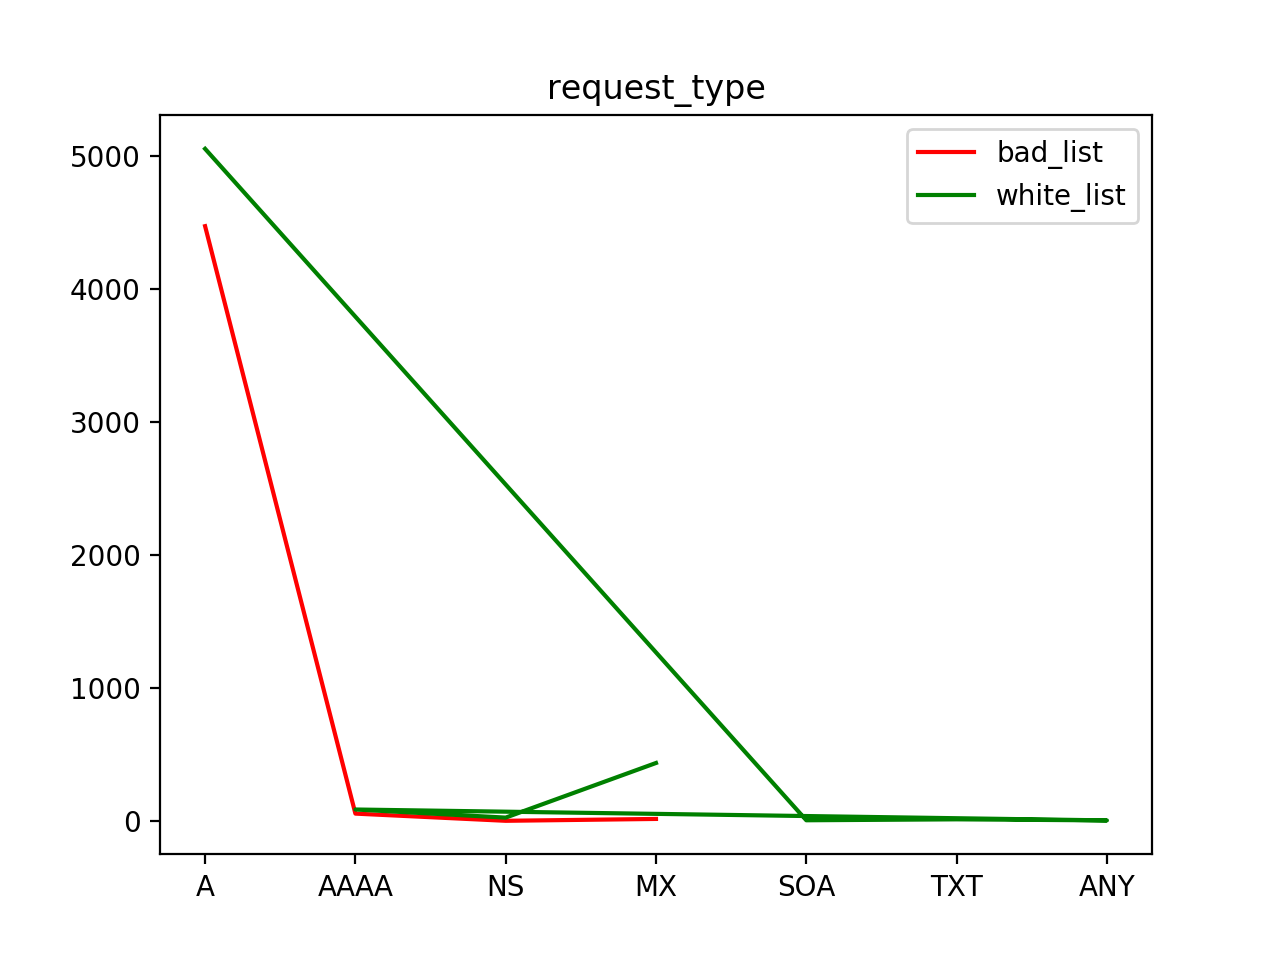
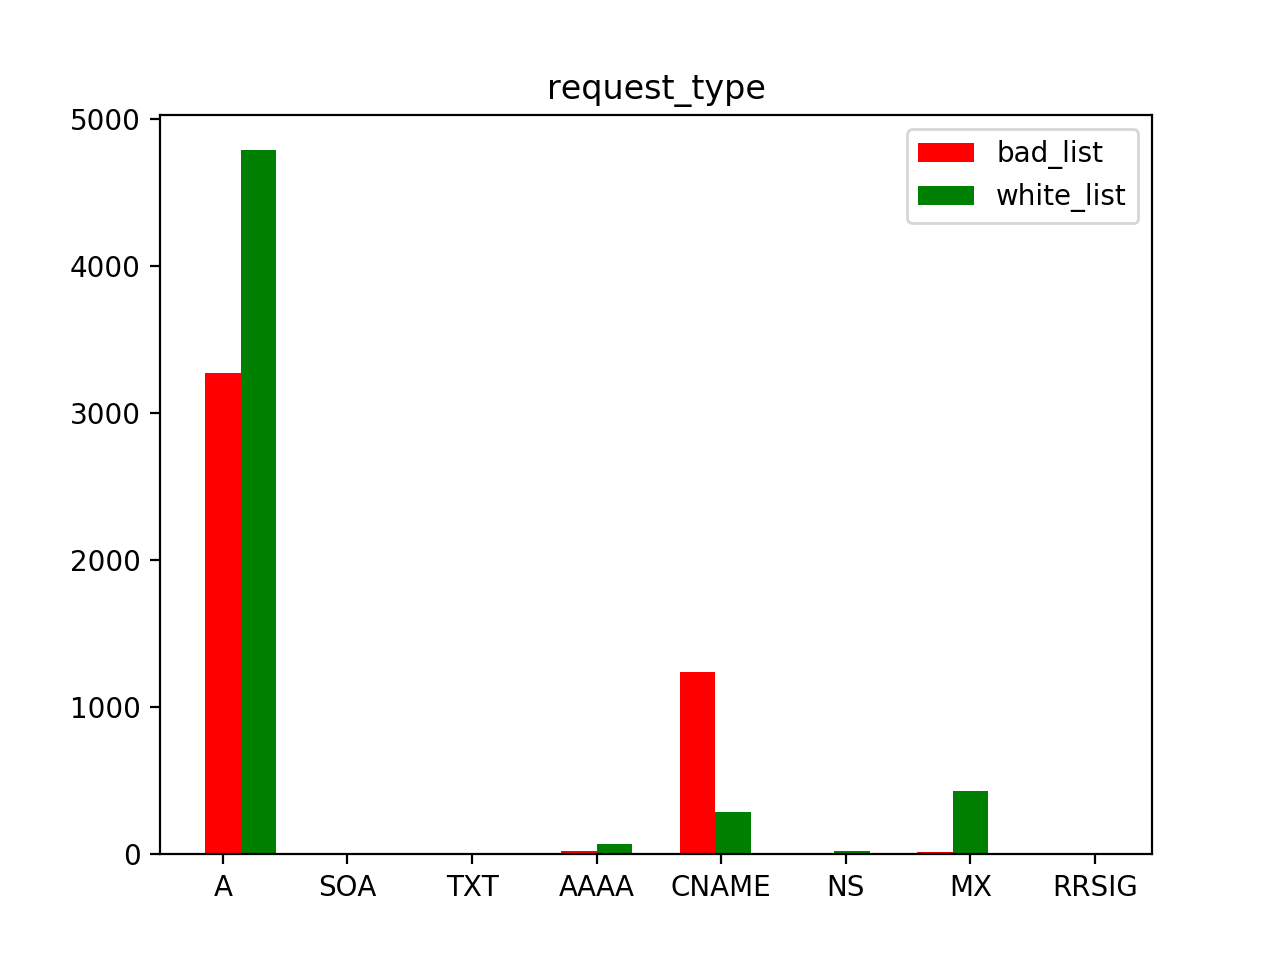
ip_count

diff --git a/code/feature_analysis.py b/code/feature_analysis.py
@@ -310,12 +310,27 @@ def inter_analysis_1():
 	for ele in bad_lines:
 		ele = ele.strip('\n').split(',')
 		if ele:
-			bad_dict[ele[1]] = {'req_type':ele[2],'TTL':ele[3]}
+			if ele[4] == 'A' or ele[4] == 'AAAA' or ele[4] == 'CNAME' or ele[4] == 'MX':
+				tmp_l = ele[5].strip('\r').split(';')
+				tmp = []
+				for every in tmp_l:
+					if re.match(r'((25[0-5]|2[0-4]\d|((1\d{2})|([1-9]?\d)))\.){3}(25[0-5]|2[0-4]\d|((1\d{2})|([1-9]?\d)))',every):
+						tmp.append(every)
+				bad_dict[ele[1]] = {'req_type':ele[4],'TTL':ele[3],'result':tmp}
+			else:
+				bad_dict[ele[1]] = {'req_type':ele[4],'TTL':ele[3],'result':[0]}
 	for ele in white_lines:
 		ele = ele.strip('\n').split(',')
 		if ele:
-			white_dict[ele[1]] = {'req_type':ele[2],'TTL':ele[3]}	
-
+			if ele[4] == 'A' or ele[4] == 'AAAA' or ele[4] == 'CNAME' or ele[4] == 'MX':
+				tmp_l = ele[5].strip('\r').split(';')
+				tmp = []
+				for every in tmp_l:
+					if re.match(r'((25[0-5]|2[0-4]\d|((1\d{2})|([1-9]?\d)))\.){3}(25[0-5]|2[0-4]\d|((1\d{2})|([1-9]?\d)))',every):
+						tmp.append(every)
+				white_dict[ele[1]] = {'req_type':ele[4],'TTL':ele[3],'result':tmp}
+			else:
+				white_dict[ele[1]] = {'req_type':ele[4],'TTL':ele[3],'result':[0]}
 
 	bad_ttl_dict = {}
 	bad_res_dict = {}
@@ -354,28 +369,62 @@ def inter_analysis_1():
 		x_line2.append(k)
 		y_line2.append(int(bad_ttl_dict[str(k)]))	
 
+	#绘制ttl的对比图
 	plt.plot(x_line2,y_line2,color='r',label='bad_list')
 	plt.plot(x_line1,y_line1,color='g',label='white_list')
 	plt.title('TTL') #标题
 	plt.legend()
 	plt.show()
 
-	x_line1 = []
-	x_line2 = []
-	y_line1 = []
-	y_line2 = []
-	for k in white_res_dict:
-		x_line1.append(k)
-		y_line1.append(int(white_res_dict[k]))
-	for k in bad_res_dict:
-		x_line2.append(k)
-		y_line2.append(int(bad_res_dict[k]))	
-
-	plt.plot(x_line2,y_line2,color='r',label='bad_list')
-	plt.plot(x_line1,y_line1,color='g',label='white_list')
+	index = white_res_dict.keys()
+	bad_y = []
+	white_y = []
+	for i in range(len(index)):
+		white_y.append(white_res_dict[index[i]])	
+		if index[i] in bad_res_dict.keys():
+			bad_y.append(bad_res_dict[index[i]])
+		else:
+			bad_y.append(0)
+	#绘制响应类型的对比图
+	ind = np.arange(len(white_res_dict.keys()))
+	bar_width = 0.3
+	plt.bar(ind , bad_y, width=0.3 , color='r',label='bad_list')
+	plt.bar(ind + bar_width , white_y, width=0.3 , color='g',label='white_list')
+	plt.xticks(tuple(x*1.05 for x in range(len(white_res_dict.keys()))),tuple(white_res_dict.keys()))
 	plt.title('request_type') #标题
 	plt.legend()
 	plt.show()	
+
+	#绘制IP个数的对比图
+	bad_ip_list = {}
+	white_ip_list = {}
+	for key in bad_dict:
+		if len(bad_dict[key]['result']) in bad_ip_list.keys():
+			bad_ip_list[len(bad_dict[key]['result'])] += 1
+		else:
+			bad_ip_list[len(bad_dict[key]['result'])] = 1
+	for key in white_dict:
+		if len(white_dict[key]['result']) in white_ip_list.keys():
+			white_ip_list[len(white_dict[key]['result'])] += 1
+		else:
+			white_ip_list[len(white_dict[key]['result'])] = 1
+
+	x_line5 = []
+	y_line5 = []
+	x_line6 = []
+	y_line6 = []
+	for k in bad_ip_list:
+		x_line5.append(k)
+		y_line5.append(bad_ip_list[k])
+	for k in white_ip_list:
+		x_line6.append(k)
+		y_line6.append(white_ip_list[k])	
+
+	plt.plot(x_line5,y_line5,color='r',label='bad_list')
+	plt.plot(x_line6,y_line6,color='g',label='white_list')
+	plt.title('ip') #标题
+	plt.legend()
+	plt.show()
 
 
 if __name__ == "__main__":

diff --git a/README.md b/README.md
@@ -152,7 +152,11 @@ domain300w.txt 	3/4的原始数据 </br>
 
 	<img src="img/request_type.png" width = 70% height = 70% /> </br>
 
+    从解析的ip个数来说,两者的分布十分相似:           
 
+    <img src="img/ip_count.png" width = 70% height = 70% /> </br>            
+
+    
 * 分类算法         
   随机森林分类器         
 
